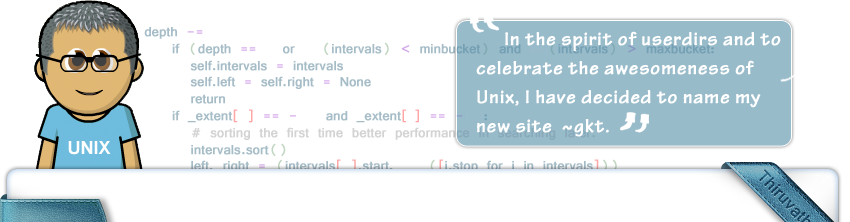
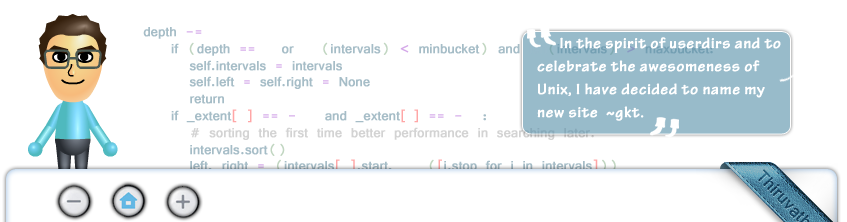
New Changes

diff --git a/assets/themes/twitter/css/eyad.css b/assets/themes/twitter/css/eyad.css
@@ -50,19 +50,46 @@ a img
 {
 	background:url('images/header.png') top center no-repeat;
 	height: 222px;
-	margin-top: 40px;
-}
-.eyad_title
-{
-	background:url('images/title.png') top center no-repeat;
-	height: 74px;
+	margin-top: 0px;
 }
 .eyad_titleWrapper
 {
-	margin: 0 auto;
-	width: 650px;	
-	padding-left: 50px;
-	height: 50px;
+	background:url('images/title.png') top center no-repeat;
+	height: 100px;
+	padding: 0px;
+	margin: 0px;
+}
+.eyad_sideribbonL
+{
+	float: left;
+	background:url('images/ribbon_sd_l.png') top center no-repeat;
+	width: 24px;	
+	height: 109px;		
+}
+.eyad_sideribbonC
+{
+	float: left;
+	background:url('images/ribbon_sd_c.png') top center repeat-x;
+	height: 109px;	
+}
+.eyad_sideribbonR
+{
+	float: left;
+	background:url('images/ribbon_sd_r.png') top center no-repeat;
+	width: 60px;	
+	height: 109px;		
+}
+.eyad_sideribbonCC
+{
+	margin: 45px 0px 0px 0px;
+	font-size: 18px;
+	font-weight: bold;
+	color: #000;
+	text-shadow: 0px 1px 1px #fff;
+}
+.eyad_sideribbonX
+{
+	clear: both;
 }
 .eyad_body
 {
@@ -81,7 +108,8 @@ a img
 }
 .eyad_footer a
 {
-	color: #b1e1f0;
+	color: #000;
+	text-shadow: 0px 1px 1px #dadada;	
 }
 .eyad_copyrightsWrapper
 {

diff --git a/_includes/themes/twitter/default.html b/_includes/themes/twitter/default.html
@@ -42,10 +42,13 @@
 
 	<div class="eyad_container">
 		<div class="eyad_header"></div>
-		<div class="eyad_title">
-			<div class="eyad_titleWrapper">
-			{{ page.title }}
+		<div class="eyad_titleWrapper">
+			<div class="eyad_sideribbonL"></div>
+			<div class="eyad_sideribbonC">
+				<div class="eyad_sideribbonCC">{{ page.title }}</div>
 			</div>
+			<div class="eyad_sideribbonR"></div>
+			<div class="eyad_sideribbonX"></div>
 		</div>
 		<div class="eyad_body">
 			<div class="eyad_bodyWrapper">
